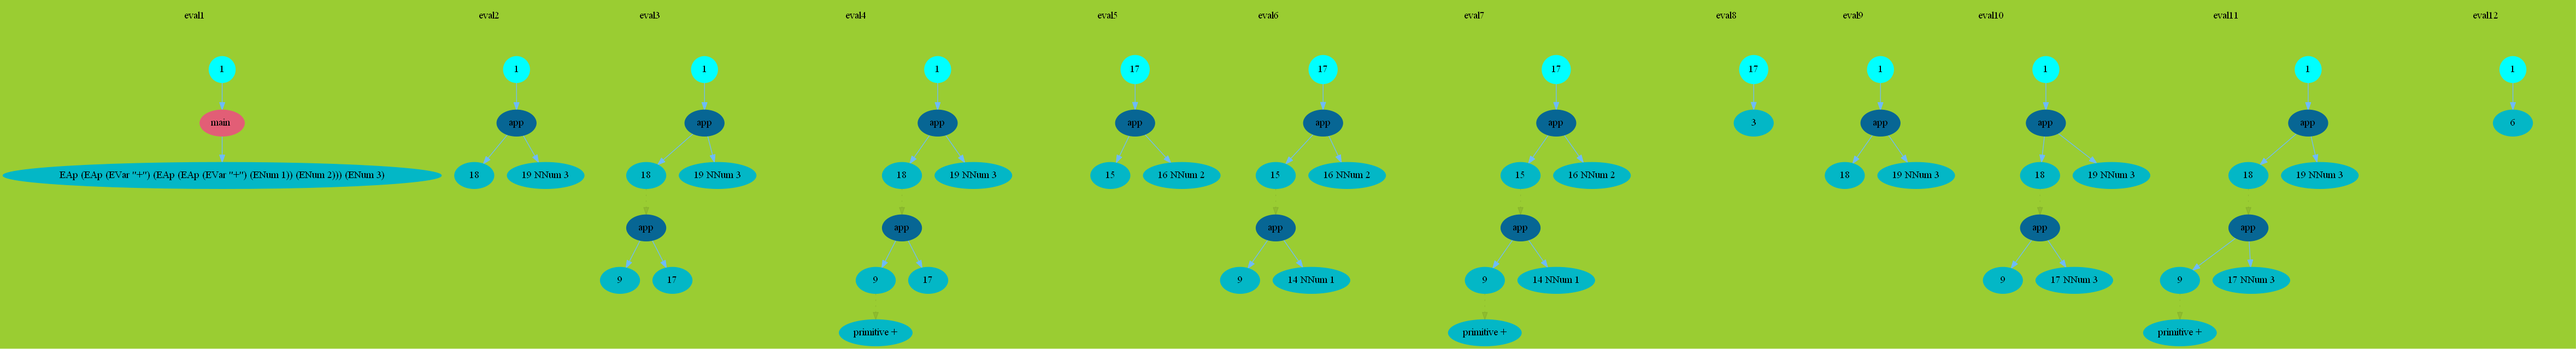
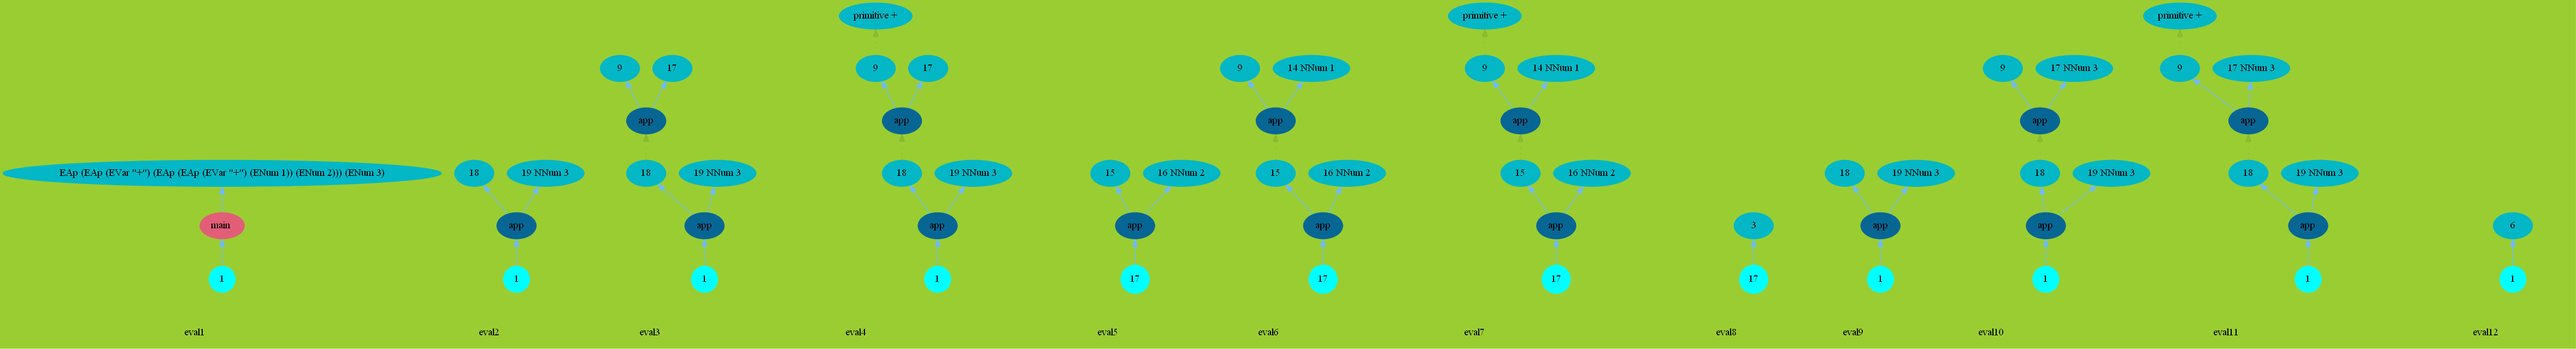
the Reduction Process is grow from bottom to top

diff --git a/README.md b/README.md
@@ -10,6 +10,6 @@ Published by Prentice Hall | January 1992
 
 ![factorial.png](https://raw.githubusercontent.com/iomeone/graphReduction/master/png/factorial.png)  
 
-## Simple programm (main = 1+2; )'s  Graph Reduction Process !
+## Simple programm (main = 1+2+3; )'s  Graph Reduction Process !
 ### stack is grow upward
 ![simpleMathGraphReduction.png](https://raw.githubusercontent.com/iomeone/graphReduction/master/png/simpleMathGraphReduction.png)  
